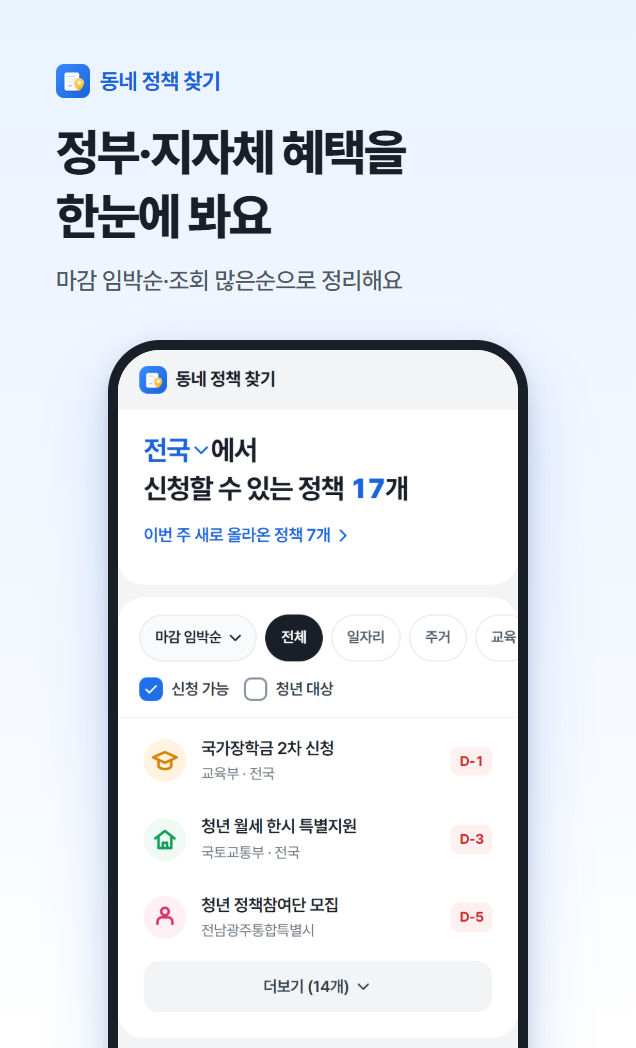
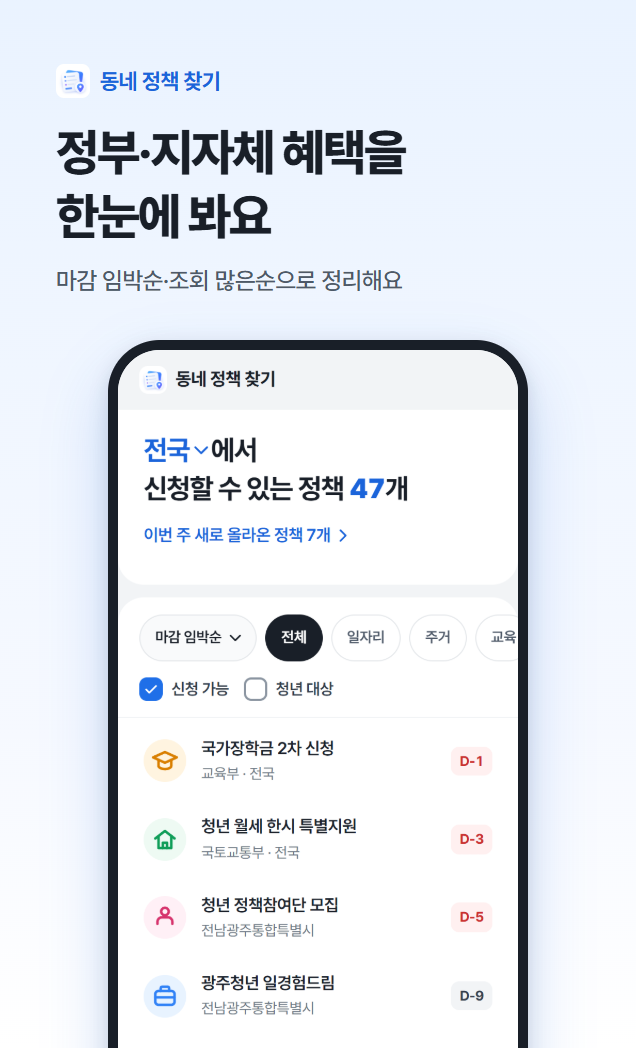
[Docs] 콘솔 제출 문구 정리와 새 로고가 들어간 스크린샷 4장 갱신

diff --git a/docs/store/console-copy.md b/docs/store/console-copy.md
@@ -1,0 +1,79 @@
+# 앱인토스 콘솔 제출 문구 · 동네 정책 찾기
+
+콘솔 입력칸에 그대로 붙여 넣을 수 있게 정리했어요. 해요체, 짧은 문장, 남의 상표·실존 인물 이름 없음.
+
+## 기본 정보
+
+| 항목 | 내용 |
+|---|---|
+| 앱 이름 | 동네 정책 찾기 |
+| appName | `policy` |
+| 로고 | `docs/brand/logo-600.png` (600×600 PNG, 각진 정사각형, 흰 배경) |
+| 카테고리(추천) | 생활 · 정보 |
+
+> 이름에 "정부24", "보조금24", "토스" 같은 서비스 이름을 쓰지 않았어요. "신청"을 대신해 주는 것처럼 보이지 않게 "찾기"로 했어요.
+
+## 한 줄 소개 (부제)
+
+- **추천:** 우리 동네 정부·지자체 혜택을 한눈에
+- 다른 안: 지역별 정부 혜택을 마감 임박순으로
+- 다른 안: 사는 지역에서 받을 수 있는 혜택 모아보기
+
+## 앱 설명
+
+```
+사는 지역에서 지금 신청할 수 있는 정부·지자체 혜택을 모아 보여 드려요.
+
+· 시·도와 시·군·구를 고르면 그 지역 혜택과 전국 혜택을 함께 보여 드려요
+· 마감 임박순, 최근 등록순, 조회 많은순, 이름순으로 정렬할 수 있어요
+· 일자리·주거·교육·생활·건강 같은 분야와 청년 대상, 신청 가능 여부로 골라 볼 수 있어요
+· 2026년에 바뀐 행정구역(전남광주통합특별시, 인천 제물포구·영종구 등)도 반영했어요
+
+행정안전부 대한민국 공공서비스 정보(공공데이터)를 6시간마다 확인해요.
+정부·지자체와 관련 없는 개인 서비스예요. 신청은 각 기관의 공식 페이지에서 해 주세요.
+```
+
+## 주요 기능 (한국어 10자 · 영어 15자 이내, 첫 글자만 대문자)
+
+| 한국어 | 글자 수 | 영어 | 글자 수 |
+|---|---|---|---|
+| 지역 혜택 찾기 | 7 | Find benefits | 13 |
+| 마감순 정렬하기 | 7 | Deadline sort | 13 |
+| 청년 혜택 보기 | 7 | Youth benefits | 14 |
+
+다른 안: 분야별 보기 / By category(11), 시군구 고르기 / Pick a region(13)
+
+## 검색 키워드
+
+정부 혜택, 지원금, 보조금, 청년 지원, 지자체 혜택, 우리 동네, 복지, 주거 지원, 일자리 지원, 마감
+
+## 스크린샷 (빌드할 때마다 덮어써요)
+
+| 파일 | 크기 | 문구 |
+|---|---|---|
+| `docs/store/screenshot-1.png` | 636×1048 | 정부·지자체 혜택을 한눈에 봐요 / 마감 임박순·조회 많은순으로 정리해요 |
+| `docs/store/screenshot-2.png` | 636×1048 | 지역을 누르면 시·군·구까지 / 2026년에 바뀐 행정구역도 반영했어요 |
+| `docs/store/screenshot-3.png` | 636×1048 | 우리 동네 혜택만 골라 볼 수 있어요 / 청년 대상·신청 가능만 따로 볼 수도 있어요 |
+| `docs/store/screenshot-wide.png` | 1504×741 | 우리 동네 혜택, 마감 전에 챙겨요 / 정부·지자체 혜택을 지역별로 모아 보여 드려요 |
+
+## 출시 메모 (ait deploy -m)
+
+대표 커밋 메시지를 그대로 써요. 예: `[Feat] 정책 목록을 처음부터 20개 보여 주고 더보기로 20개씩 늘림`
+
+## 검수 요청 때 적을 내용
+
+```
+공공데이터포털의 행정안전부 대한민국 공공서비스 정보 API로 정부·지자체 혜택을 모아 지역별로 보여 주는 무료 정보 서비스입니다.
+로그인·결제·광고가 없고, 사용자 정보는 받지 않습니다(고른 지역은 기기에만 저장).
+정책 신청은 하지 않으며, 상세 화면에서 담당 기관의 공식 페이지로 연결합니다.
+```
+
+## 나중에 알림을 켤 때 (지금은 꺼 둠)
+
+| 항목 | 내용 |
+|---|---|
+| 캠페인 종류 | 기능성 |
+| 발송 코드 | `policy-new` |
+| 푸시 제목(7자 이내, 명사형) | 새 정책 등록 |
+| 본문 | {region}에 새 정책 {count}개가 올라왔어요. |
+| 알림동의문 | 고른 지역에 새 정책이 올라오면 하루 한 번까지 토스 메시지로 알려 드려요. |
